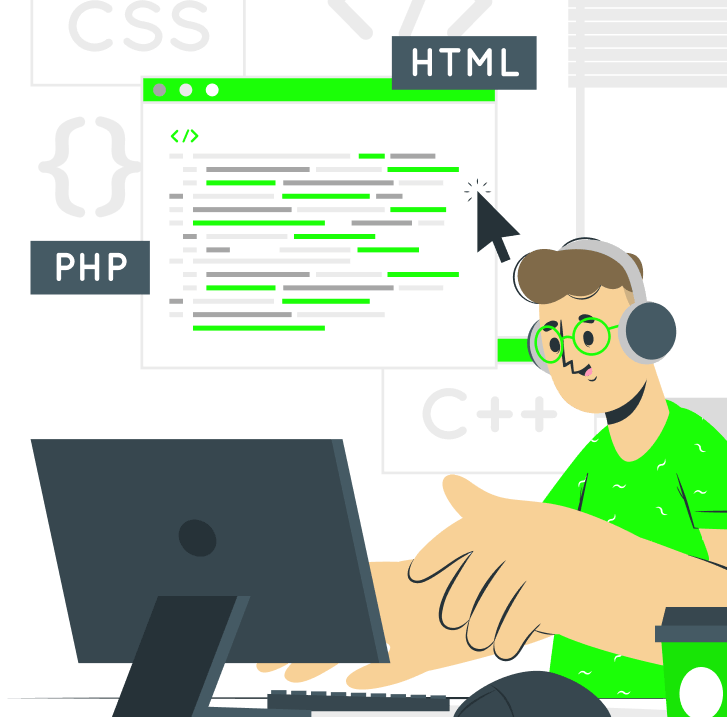
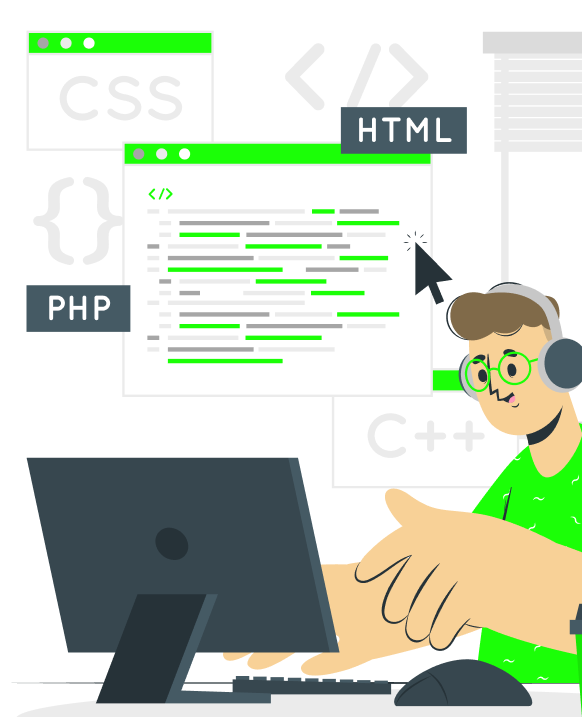
Modified contacts section. Added adaptive

Changed region(s): [[0.0309, 0.0307, 1.0, 1.0], [0.0619, 0.7057, 0.0928, 0.8285], [0.7113, 0.7978, 0.7423, 0.8285]]

diff --git a/styles/contacts.css b/styles/contacts.css
@@ -1,5 +1,6 @@
 .contacts {
     max-width: 100%;
+    padding-top: 100px;
     height: 717px;
     position: relative;
     border-radius: 30px;
@@ -10,28 +11,147 @@
 }
 
 .contacts__content {
-    position: absolute;
-    bottom: 89px;
+    max-width: 1150px;
+    margin: 0 auto;
 }
 
 .contacts__title{
-    margin-bottom: 28px;
-    font-size: 35px;
-    line-height: 60px;
-}
-
-.contacts__link {
-    display: block;
-    margin-bottom: 20px;
-    color: #FFF;
+    max-width: 553px;
+    margin-bottom: 60px;
     font-size: 60px;
     line-height: 60px;
 }
 
-.contacts__link:nth-last-child(1) {
-    margin-bottom: 0;
+.contacts__form {
+    display: flex;
+    flex-direction: column;
+    row-gap: 26px;
+    margin-bottom: 60px;
+    max-width: 567px;
 }
 
-.contacts__link:hover {
+.contacts__form-input {
+    border-radius: 1000px;
+    border: none;
+    padding-top: 16px;
+    padding-left: 40px;
+    padding-bottom: 15px;
+    background: #3B3D3B;
+    font-family: inherit;
+    font-size: 22px;
+    line-height: 29px;
+    color: #FFF;
+}
+
+.contacts__form-input::placeholder {
+    color: #FFF;
+    opacity: 1;
+}
+
+.contacts__send-btn {
+    display: flex;
+    justify-content: center;
+    align-items: center;
+    width: 100%;
+    max-width: 450px;
+    height: 71px;
+    padding: 0;
+    background-color: #1BFF07;
+    border-radius: 10px;
+    border: none;
+
+    color: #000;
+    font-size: 22px;
+    line-height: 29px;
+    cursor: pointer;
+
+    font-family: inherit;
+}
+
+.contacts__send-btn:hover {
+    background-color: #000;
+    border: 1px solid #1BFF07;
     color: #1BFF07;
+
+    transition: background-color 0.5s, color 0.5s;
+}
+
+@media (max-width: 1199px) {
+    .contacts {
+        padding-top: 50px;
+        padding-left: 50px;
+        height: 484px;
+        border-radius: 20.25px;
+        background-position: 100%;
+        background-size: 41%;
+    }
+    
+    .contacts__title{
+        max-width: 373px;
+        margin-bottom: 40px;
+        font-size: 40px;
+        line-height: 40.5px;
+    }
+    
+    .contacts__form {
+        row-gap: 17px;
+        margin-bottom: 40px;
+        max-width: 383px;
+    }
+    
+    .contacts__form-input {
+        border-radius: 675px;
+        padding-top: 10px;
+        padding-left: 24px;
+        padding-bottom: 10px;
+        font-size: 16px;
+        line-height: 21px;
+    }
+    
+    .contacts__send-btn {
+        max-width: 305px;
+        height: 47px;
+        border-radius: 6.75px;
+        font-size: 16px;
+        line-height: 21px;
+    }
+}
+
+@media (max-width: 767px) {
+    .contacts {
+        padding-top: 50px;
+        padding-left: 35px;
+        height: auto;
+        border-radius: 18.664px;
+        background-image: none;
+    }
+    
+    .contacts__title{
+        max-width: 310px;
+        font-size: 35px;
+        line-height: 37.329px;
+    }
+    
+    .contacts__form {
+        row-gap: 15px;
+        max-width: 305px;
+    }
+    
+    .contacts__form-input {
+        border-radius: 622.143px;
+        padding-top: 9px;
+        padding-left: 20px;
+        padding-bottom: 9px;
+        font-size: 15px;
+        line-height: 20px;
+    }
+    
+    .contacts__send-btn {
+        max-width: 305px;
+        height: 44px;
+        border-radius: 6.221px;
+        font-size: 15px;
+        line-height: 20px;
+    }
+
 }

diff --git a/index.html b/index.html
@@ -89,7 +89,7 @@
                     </a>
                 </li>
             </ul>
-            <a class="projects__button">Смотреть все проекты</a>
+            <a class="button projects__button">Смотреть все проекты</a>
         </section>
         <section class="skills" id="skills">
             <h2 class="skills__title">Мои компетенции</h2>
@@ -145,17 +145,33 @@
         </section>
         <section class="contacts" id="contacts">
             <div class="contacts__content">
-                <h2 class="contacts__title">для связи:</h2>
-                <a href="http://www.instagram.com" class="contacts__link" target="_blank" rel="noopener noreferrer">instagram</a>
-                <a href="http://www.telegram.com" class="contacts__link" target="_blank" rel="noopener noreferrer">telegram</a>
-                <a href="mailto:example@gmail.com" class="contacts__link" target="_blank" rel="noopener noreferrer">mail</a>    
+                <h2 class="contacts__title">Для связи со мной заполните простую форму</h2>
+                <form class="contacts__form">
+                    <input
+                        class="contacts__form-input"
+                        type="text"
+                        name="name"
+                        placeholder="Имя Фамилия"
+                    >
+                    <input
+                        class="contacts__form-input"
+                        type="email"
+                        name="email"
+                        placeholder="example@mail.com"
+                    >
+                </form>
+                <button class="contacts__send-btn">Отправить</button>
             </div>
         </section>
     </main>
     <footer>
         <div class="footer-content">
             <p class="footer-title">Портфолио фротнтенд-разработчика Саши Орлова</p>
-            <p class="footer-text">Все права защищены. 2023</p>    
+            <p class="footer-text">Все права защищены. 2023</p>  
+            <a href="http://www.instagram.com" class="PLACEHOLDER" target="_blank" rel="noopener noreferrer">instagram</a>
+            <a href="http://www.telegram.com" class="PLACEHOLDER" target="_blank" rel="noopener noreferrer">telegram</a>
+            <a href="mailto:example@gmail.com" class="PLACEHOLDER" target="_blank" rel="noopener noreferrer">mail</a>    
+
         </div>
     </footer>
 

diff --git a/styles/services.css b/styles/services.css
@@ -1,9 +1,19 @@
+.services {
+    padding-bottom: 150px;
+}
+
 .services__title {
     margin-bottom: 40px;
     max-width: 870px;
 
     font-size: 55px;
     line-height: 72px;
+}
+
+.services__list {
+    display: flex;
+    flex-direction: column;
+    row-gap: 40px;
 }
 
 .serivce__image {
@@ -25,7 +35,6 @@
 .service__content {
     display: flex;
     column-gap: 20px;
-    margin-bottom: 40px;
     padding-top: 40px;
     padding-right: 40px;
     padding-left: 40px;
@@ -56,6 +65,10 @@
         line-height: 59px;
     }
 
+    .services__list {
+        row-gap: 32px;
+    }
+
     .serivce__image {
         height: 162px;
         border-radius: 24.261px;
@@ -63,7 +76,6 @@
     
     .service__content {
         column-gap: 16px;
-        margin-bottom: 32px;
         padding-top: 32px;
         padding-right: 32px;
         padding-left: 32px;
@@ -84,12 +96,20 @@
 }
 
 @media (max-width: 767px) {
+    .services {
+        padding-bottom: 100px;
+    }
+
     .services__title {
         margin-bottom: 35px;
         max-width: 326px;
     
         font-size: 28px;
         line-height: 36px;
+    }
+
+    .services__list {
+        row-gap: 60px;
     }
 
     .serivce__image {
@@ -107,7 +127,6 @@
     .service__content {
         flex-direction: column;
         row-gap: 15px;
-        margin-bottom: 60px;
         padding-top: 30px;
         padding-right: 0;
         padding-left: 20px;
